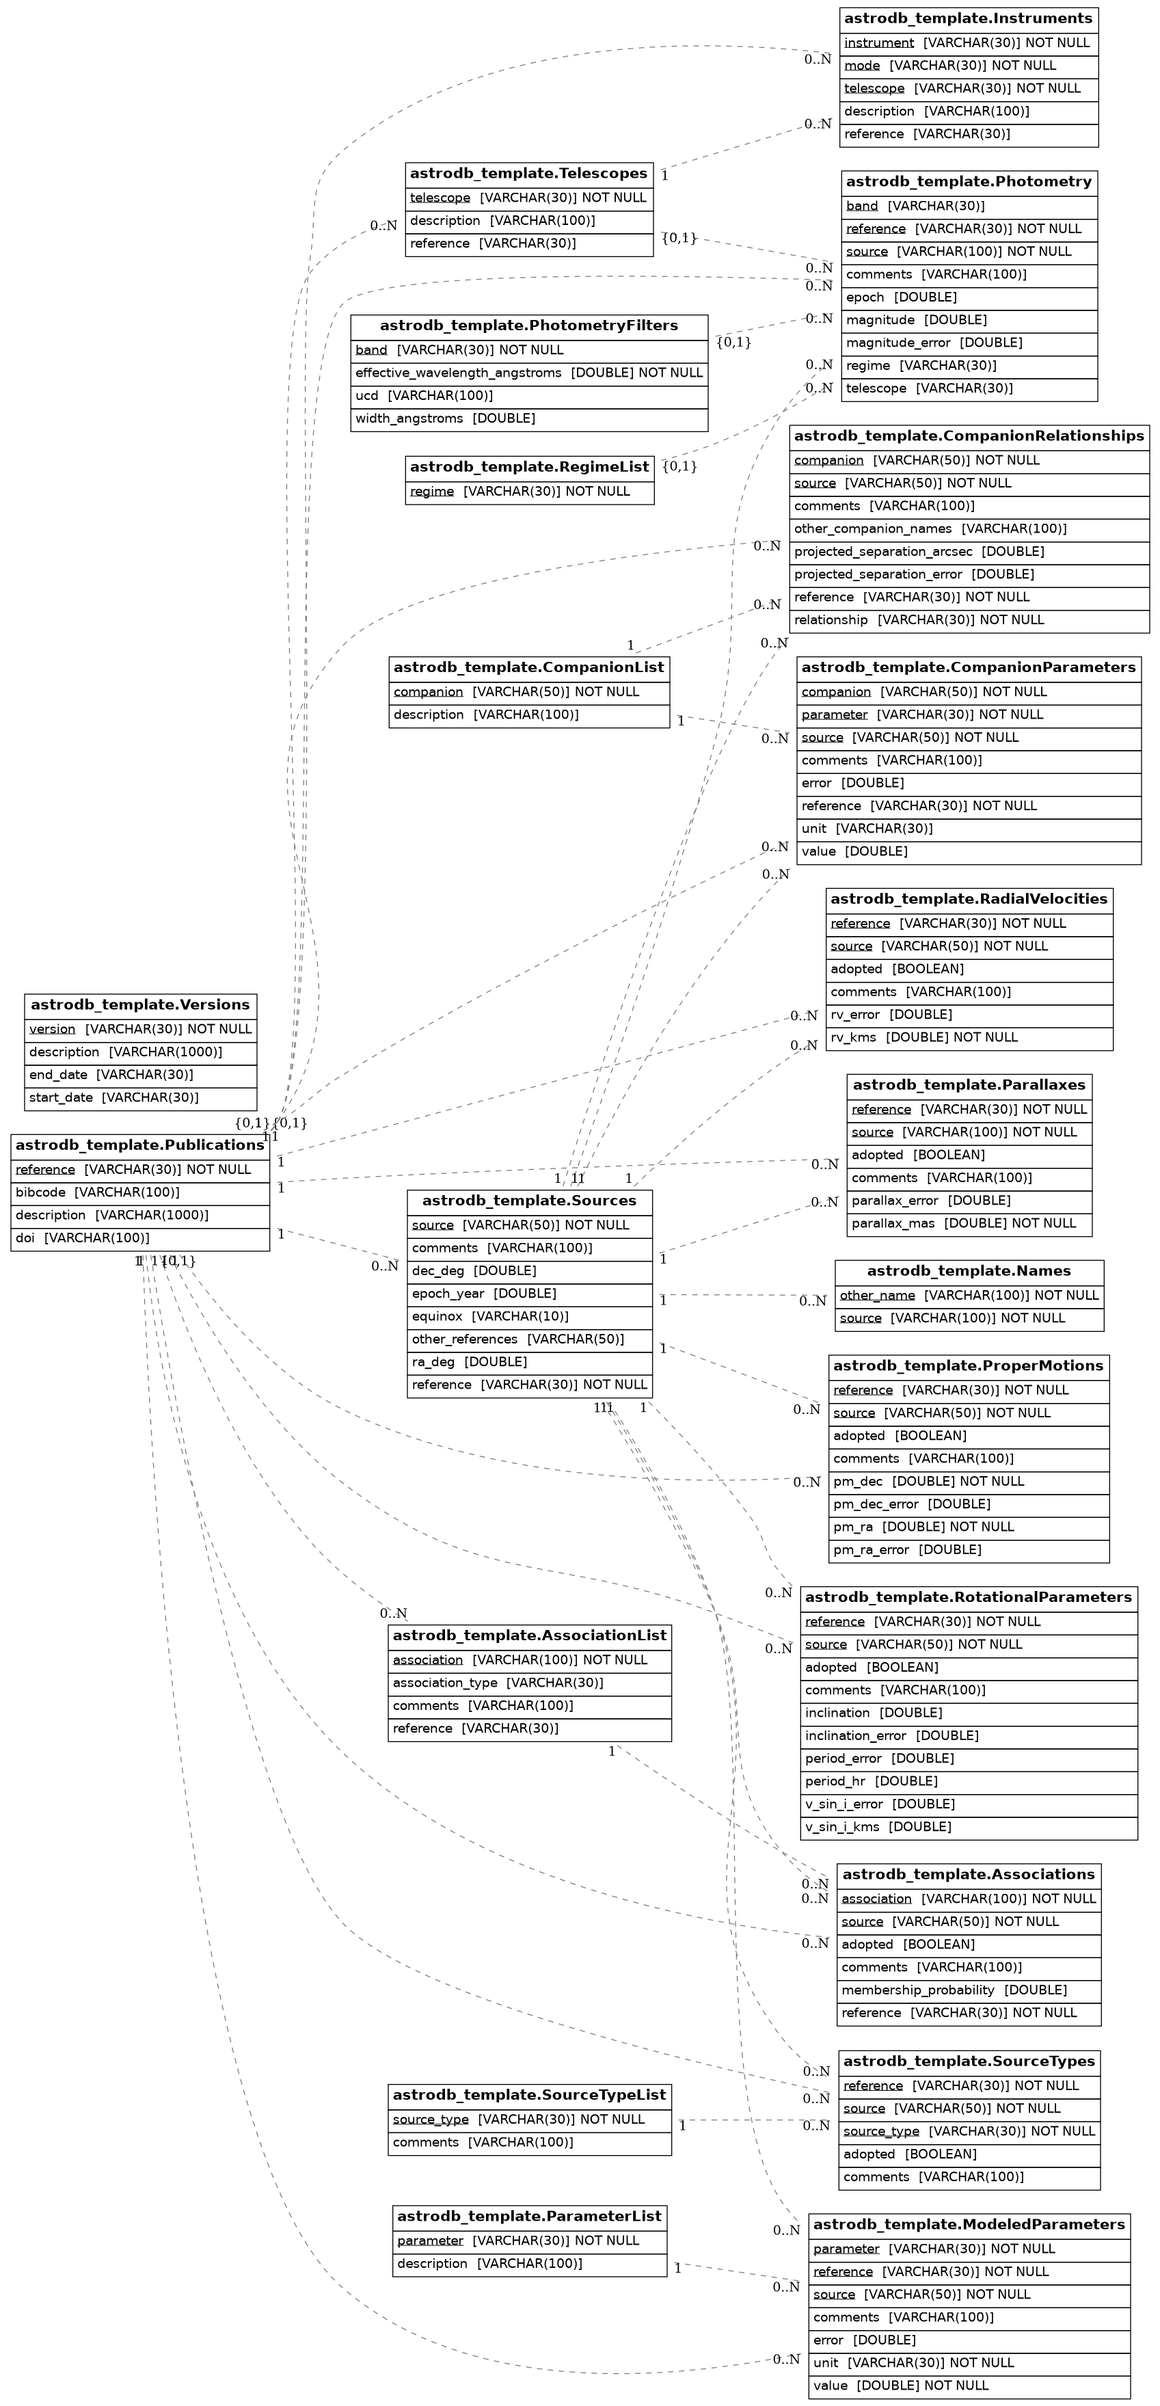
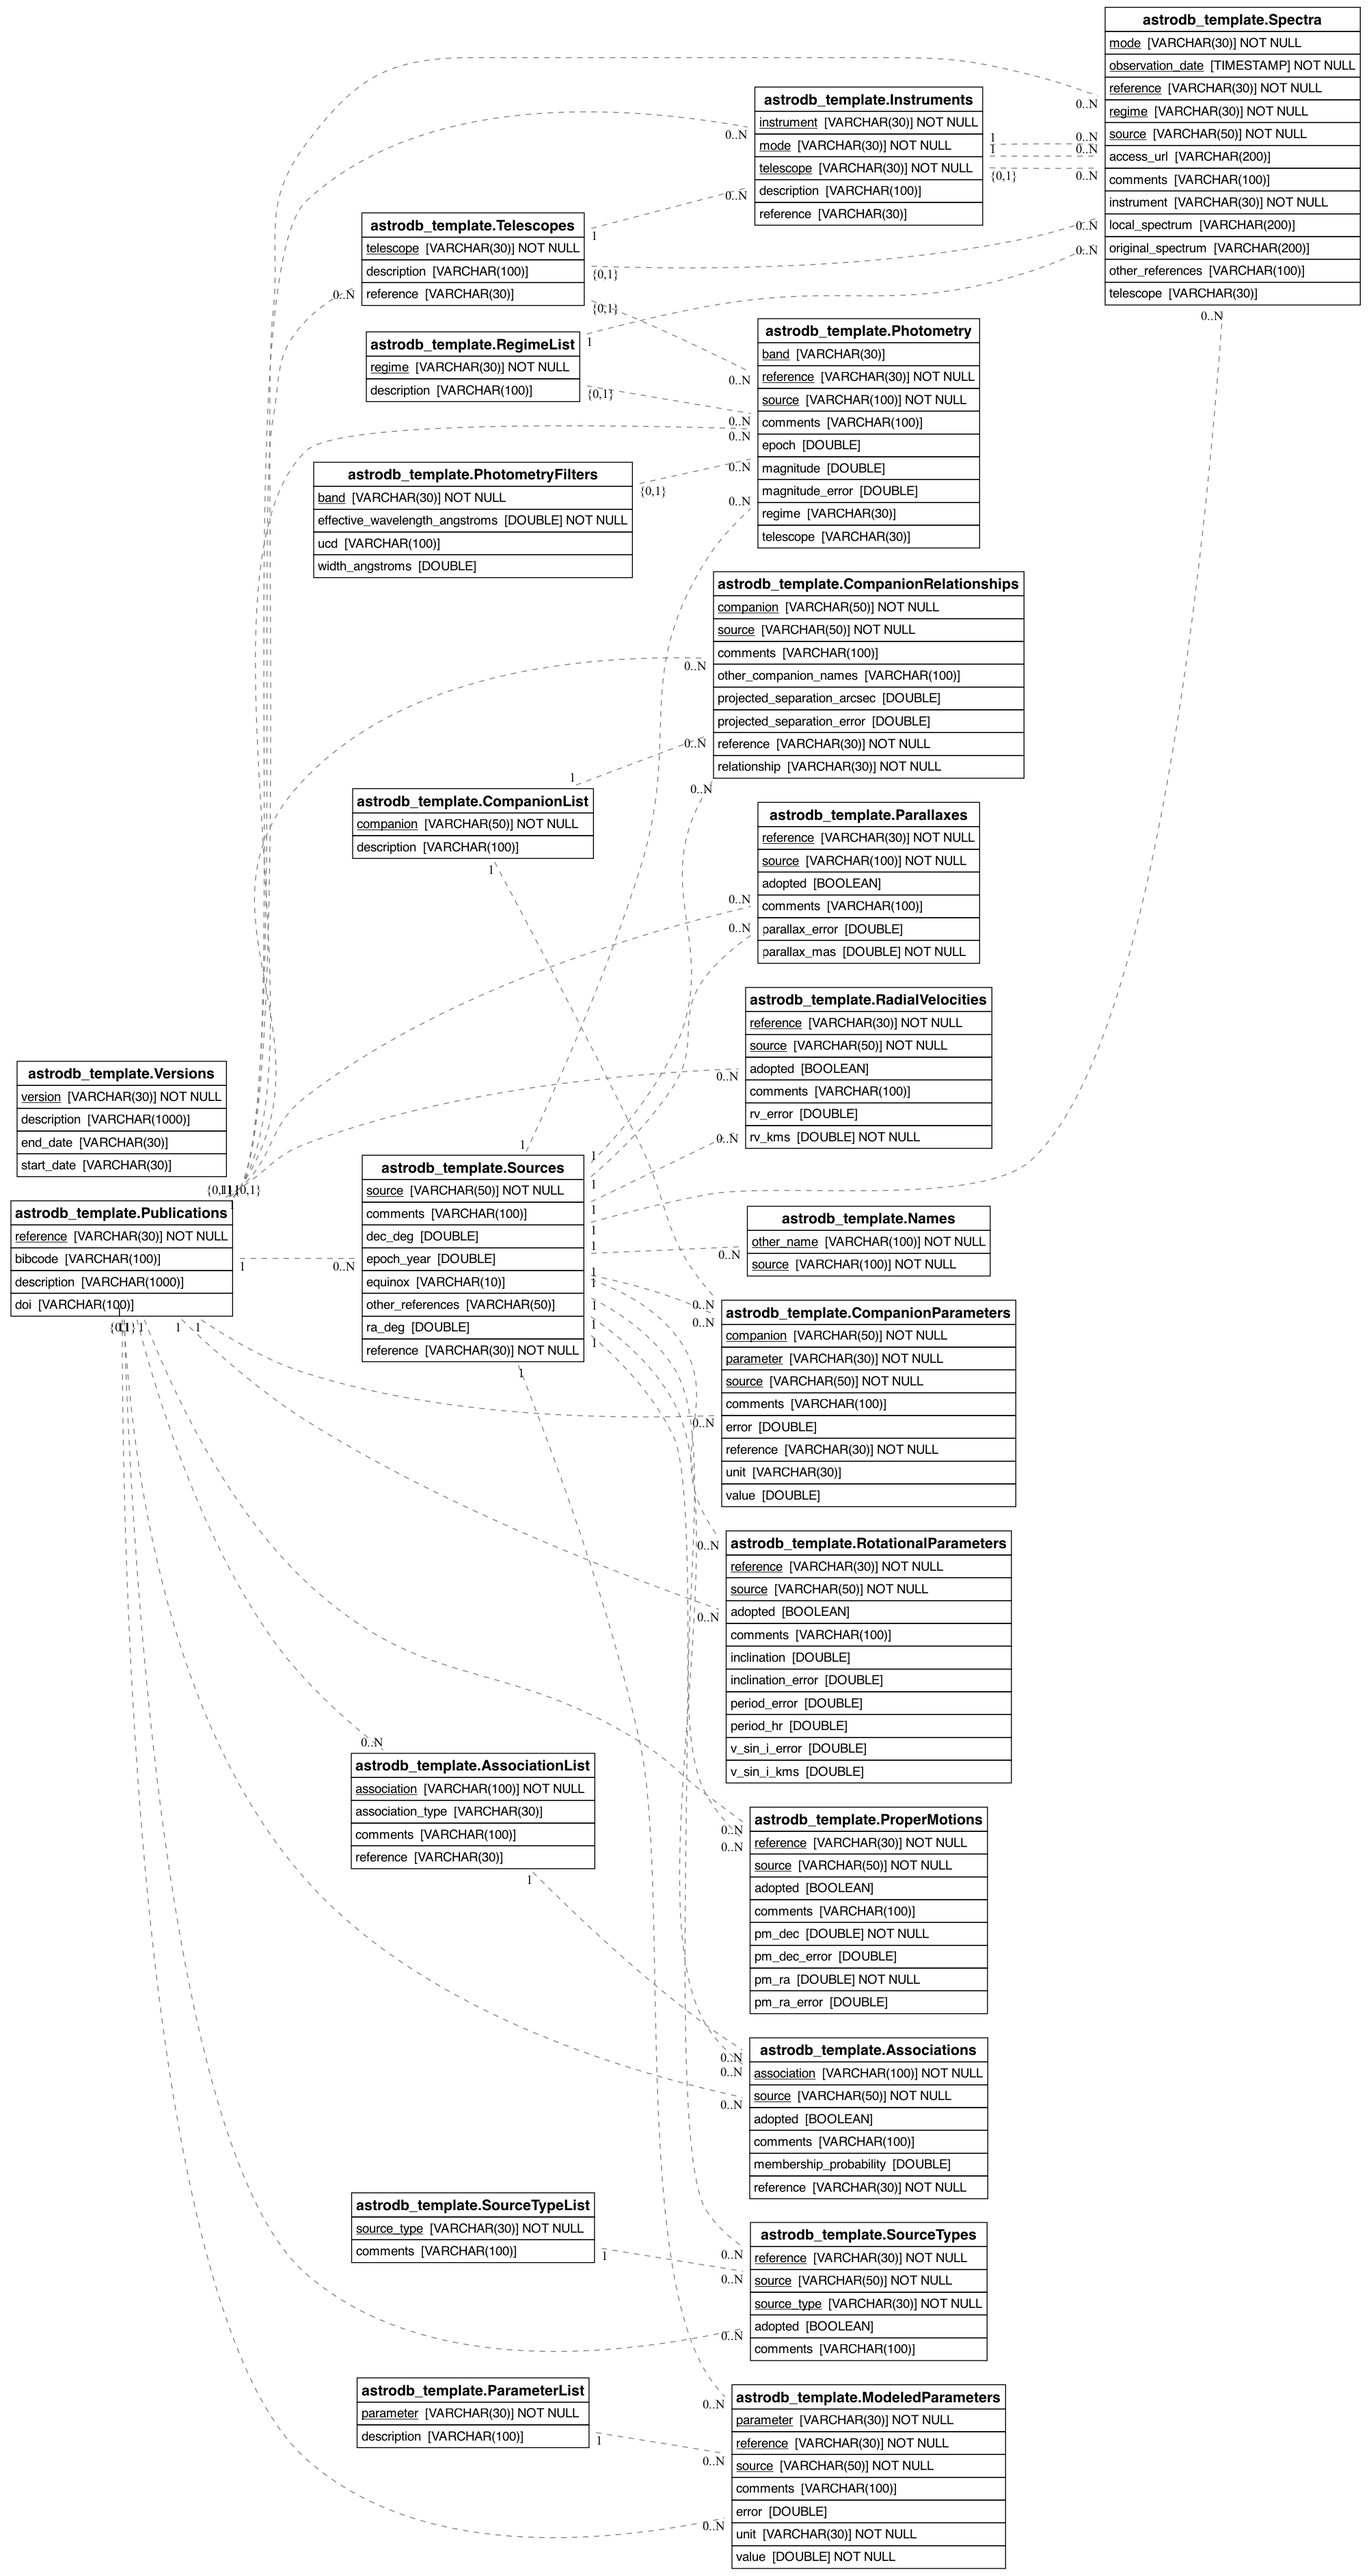
Add Spectra table and template data (#160)
* start of Spectra table

* add more template data. description to Regimes table

* spectra and regimes table

* improve descriptions

* remove test_phot_filters

Changed region(s): [[0.0, 0.0, 0.9994, 1.0]]

diff --git a/tests/test_contents.py b/tests/test_contents.py
@@ -8,7 +8,7 @@ from sqlalchemy import or_
 
 def test_table_presence(db):
     # Confirm the tables that should be present
-    assert len(db.metadata.tables.keys()) == 22
+    assert len(db.metadata.tables.keys()) == 23
     assert "Sources" in db.metadata.tables.keys()
     assert "Publications" in db.metadata.tables.keys()
     assert "Names" in db.metadata.tables.keys()
@@ -37,6 +37,7 @@ def test_table_presence(db):
     assert "ModeledParameters" in db.metadata.tables.keys()
     assert "RotationalParameters" in db.metadata.tables.keys()
     assert "ParameterList" in db.metadata.tables.keys()
+    assert "Spectra" in db.metadata.tables.keys()
 
 
 def test_magnitudes(db):

diff --git a/docs/schema/Spectra.md b/docs/schema/Spectra.md
@@ -1,0 +1,33 @@
+# Spectra
+The Spectra table contains spectral data for sources listed in the Sources table. The combination of *source*, *regime*, *mode*, *observation_date*, and *reference* is expected to be unique.
+
+
+Columns marked with an exclamation mark (❗) may not be empty.
+| Column Name | Description | Datatype | Length | Units  | UCD |
+| --- | --- | --- | --- | --- | --- |
+| ❗ <ins>source</ins> | Unique identifier for the source; links to Sources table | string | 50 |  | meta.id;meta.main  |
+| access_url | URL to access the spectral data. Ideally, should be readable by specutils. | string | 200 |  | meta.ref.url;meta.file;meta.dataset  |
+| original_spectrum | URL for the original spectrum, if relevant. | string | 200 |  | meta.ref.url;meta.file;meta.dataset  |
+| local_spectrum | Local file path to the spectrum data | string | 200 |  | meta.dataset;meta.file  |
+| ❗ <ins>regime</ins> | Spectral regime (e.g., optical, IR, radio); links to RegimeList table | string | 30 |  | meta.id  |
+| ❗ telescope | Telescope, mission, or survey name; links to Telescopes table | string | 30 |  | instr.tel;instr.obsty  |
+| ❗ instrument | Instrument used for the observation; links to Instruments table | string | 30 |  | instr  |
+| ❗ <ins>mode</ins> | Instrument mode; links to Instruments table | string | 30 |  | instr.setup  |
+| ❗ <ins>observation_date</ins> | Date of the observation in ISO format (YYYY-MM-DD) | timestamp |  |  | time.epoch  |
+| comments | Free form comments | string | 100 |  | meta.note  |
+| ❗ <ins>reference</ins> | Reference; links to Publications table | string | 30 |  | meta.ref  |
+| other_references | Additional references for the spectrum, comma delimited. | string | 100 |  | meta.ref  |
+
+## Indexes
+| Name | Columns | Description |
+| --- | --- | --- |
+| PK_Spectra | ['#Spectra.source', '#Spectra.regime', '#Spectra.mode', '#Spectra.observation_date', '#Spectra.reference'] | Primary key for Spectra table |
+
+## Foreign Keys
+| Description | Columns | Referenced Columns |
+| --- | --- | --- |
+| Link Spectra source to Sources table | ['#Spectra.source'] | ['#Sources.source'] |
+| Link Spectra regime to RegimeList table | ['#Spectra.regime'] | ['#RegimeList.regime'] |
+| Link Spectra telescope to Telescopes table | ['#Spectra.telescope'] | ['#Telescopes.telescope'] |
+| Link Spectra instrument to Instruments table | ['#Spectra.instrument', '#Spectra.mode', '#Spectra.telescope'] | ['#Instruments.instrument', '#Instruments.mode', '#Instruments.telescope'] |
+| Link Spectra reference to Publications table | ['#Spectra.reference'] | ['#Publications.reference'] |

diff --git a/docs/README.md b/docs/README.md
@@ -24,6 +24,7 @@ This documentation is generated from the [schema.yaml](schema/schema.yaml) file 
 - [ProperMotions](schema/ProperMotions.md)
 - [ModeledParameters](schema/ModeledParameters.md)
 - [RotationalParameters](schema/RotationalParameters.md)
+- [Spectra](schema/Spectra.md)
 
 ## Schema Diagram
 This diagram is generated from the [schema.yaml](schema/schema.yaml) file using [make_schema_erd.py](scripts/make_schema_erd.py).

diff --git a/docs/schema/RegimeList.md b/docs/schema/RegimeList.md
@@ -6,6 +6,7 @@ Columns marked with an exclamation mark (❗) may not be empty.
 | Column Name | Description | Datatype | Length | Units  | UCD |
 | --- | --- | --- | --- | --- | --- |
 | ❗ <ins>regime</ins> | Regime identifier string | string | 30 |  | meta.id;meta.main  |
+| description | Description of the regime | string | 100 |  | meta.note  |
 
 ## Indexes
 | Name | Columns | Description |
